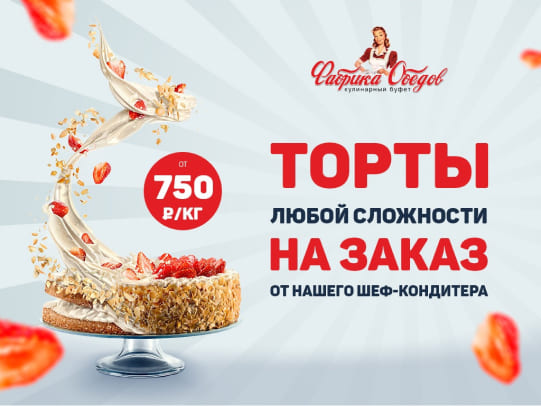
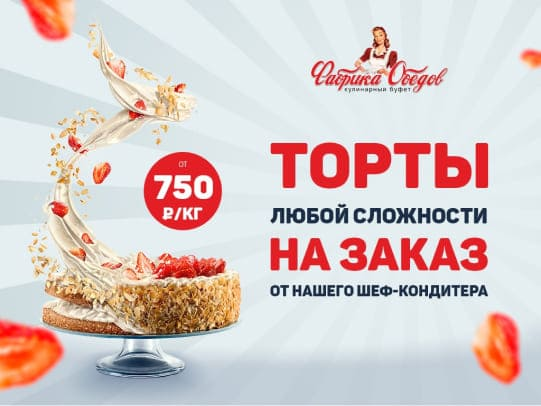
perf: optimized images

diff --git a/src/components/SectionMenu.tsx b/src/components/SectionMenu.tsx
@@ -6,6 +6,7 @@ import { useEffect, useState } from "react";
 import { ApiResponse } from "../intefaces/interfaces";
 
 const SectionMenu = () => {
+  console.log('MENU RENDER')
   const [menu, setMenu] = useState<ApiResponse[]>([])
   const [menuLoadingStatus, setMenuLoadingStatus] = useState<string>('')
 

diff --git a/src/components/AppFooter.tsx b/src/components/AppFooter.tsx
@@ -1,4 +1,4 @@
-import logo from "../assets/img/logo.svg";
+import logo from "../assets/img/logo.png";
 import paySystems from "../static/paySystems";
 import messengers from "../static/messengers";
 import socialNetworks from "../static/socialNetworks";

diff --git a/src/components/AppHeader.tsx b/src/components/AppHeader.tsx
@@ -1,4 +1,4 @@
-import logo from "../assets/img/logo.svg";
+import logo from "../assets/img/logo.png";
 import headerLinks from "../static/headerList";
 
 import { Link, NavLink } from "react-router-dom";
